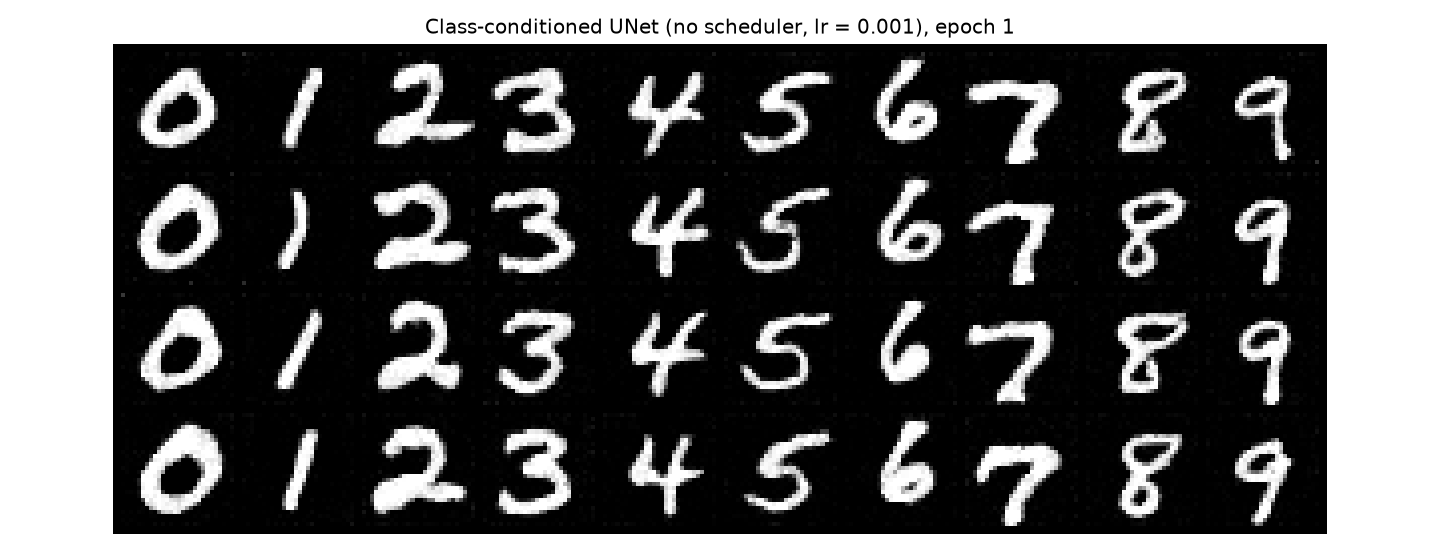
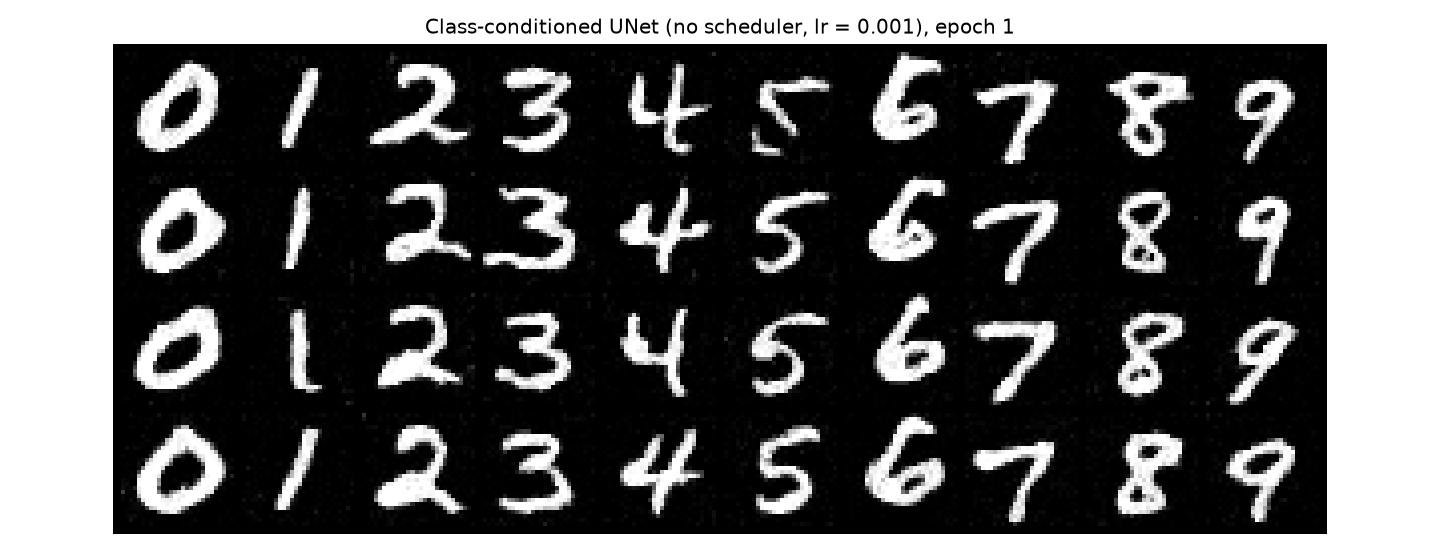
Project 3: retrained Part B, final text

diff --git a/cs180/project3/index.html b/cs180/project3/index.html
@@ -84,7 +84,7 @@
 </div>
 
 <h2 class="big">Part B: Flow Matching from Scratch</h2>
-<p>For Part B, I took the code and trained the actual UNets on compute from the BAIR lab I work with. Instead of Colab, I ran the notebook from the command line on the lab machine, but the results should be mostly the same.</p>
+<p>For Part B, I took the code and trained the actual UNets on compute from the BAIR lab I work with. Instead of Colab, I ran most of the code through Python scripts, but the results should be mostly the same. The submitted code is still the Colab notebook version.</p>
 
 <h2>Part 1.2: Noising process</h2>
 <figure class="wide"><img src="assets/noising.png" alt="sigma = 0.0, 0.2, 0.4, 0.5, 0.6, 0.8, 1.0"><figcaption>sigma = 0.0, 0.2, 0.4, 0.5, 0.6, 0.8, 1.0</figcaption></figure>
@@ -122,7 +122,7 @@
 <h3>Without the learning-rate scheduler</h3>
 <figure class="wide"><img src="assets/class_fm_nosched_loss.png" alt="training loss, constant learning rate"><figcaption>training loss, constant lr = 1e-3</figcaption></figure>
 <figure class="wide"><img src="assets/class_fm_nosched_samples_epoch10.png" alt="epoch 10, no scheduler"><figcaption>epoch 10, no scheduler, constant lr = 1e-3</figcaption></figure>
-<p>To remove the scheduler I trained with a constant learning rate of 1e-3 instead of starting at 1e-2 and decaying. The scheduler mainly guards against the large early steps a 1e-2 rate causes, and 1e-3 is small enough to train stably from the start while still converging within 10 epochs. The samples look as good as the scheduled run, and the final-epoch loss is nearly the same (0.0852 without the scheduler vs. 0.0844 with it).</p>
+<p>I removed the scheduler and decreased the learning rate from 1e-2 to 1e-3. My philosophy is that moving in small steps prevents overshooting the loss. If it moves in small steps for enough steps, even if it oscillates, it will still move toward a lower loss, just like the scheduler does. As a result, my loss curve fluctuates more, but it still generally goes lower.</p>
 
 </main>
 </body>
